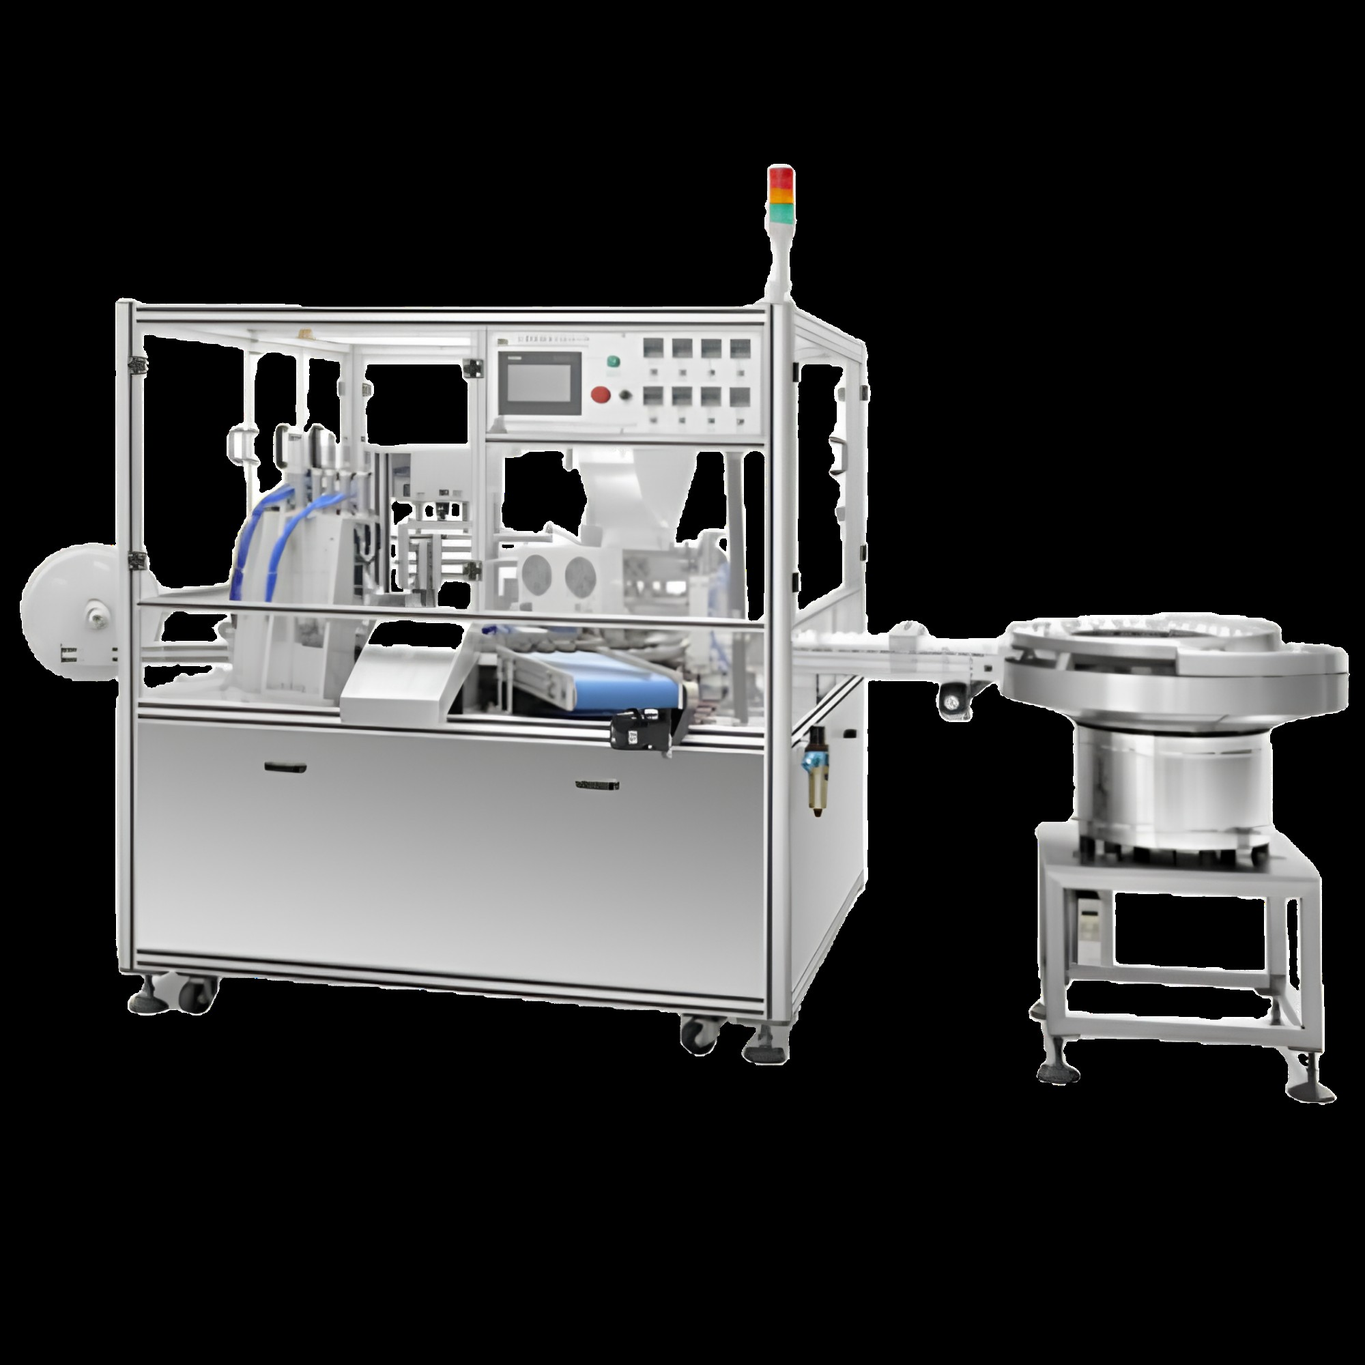
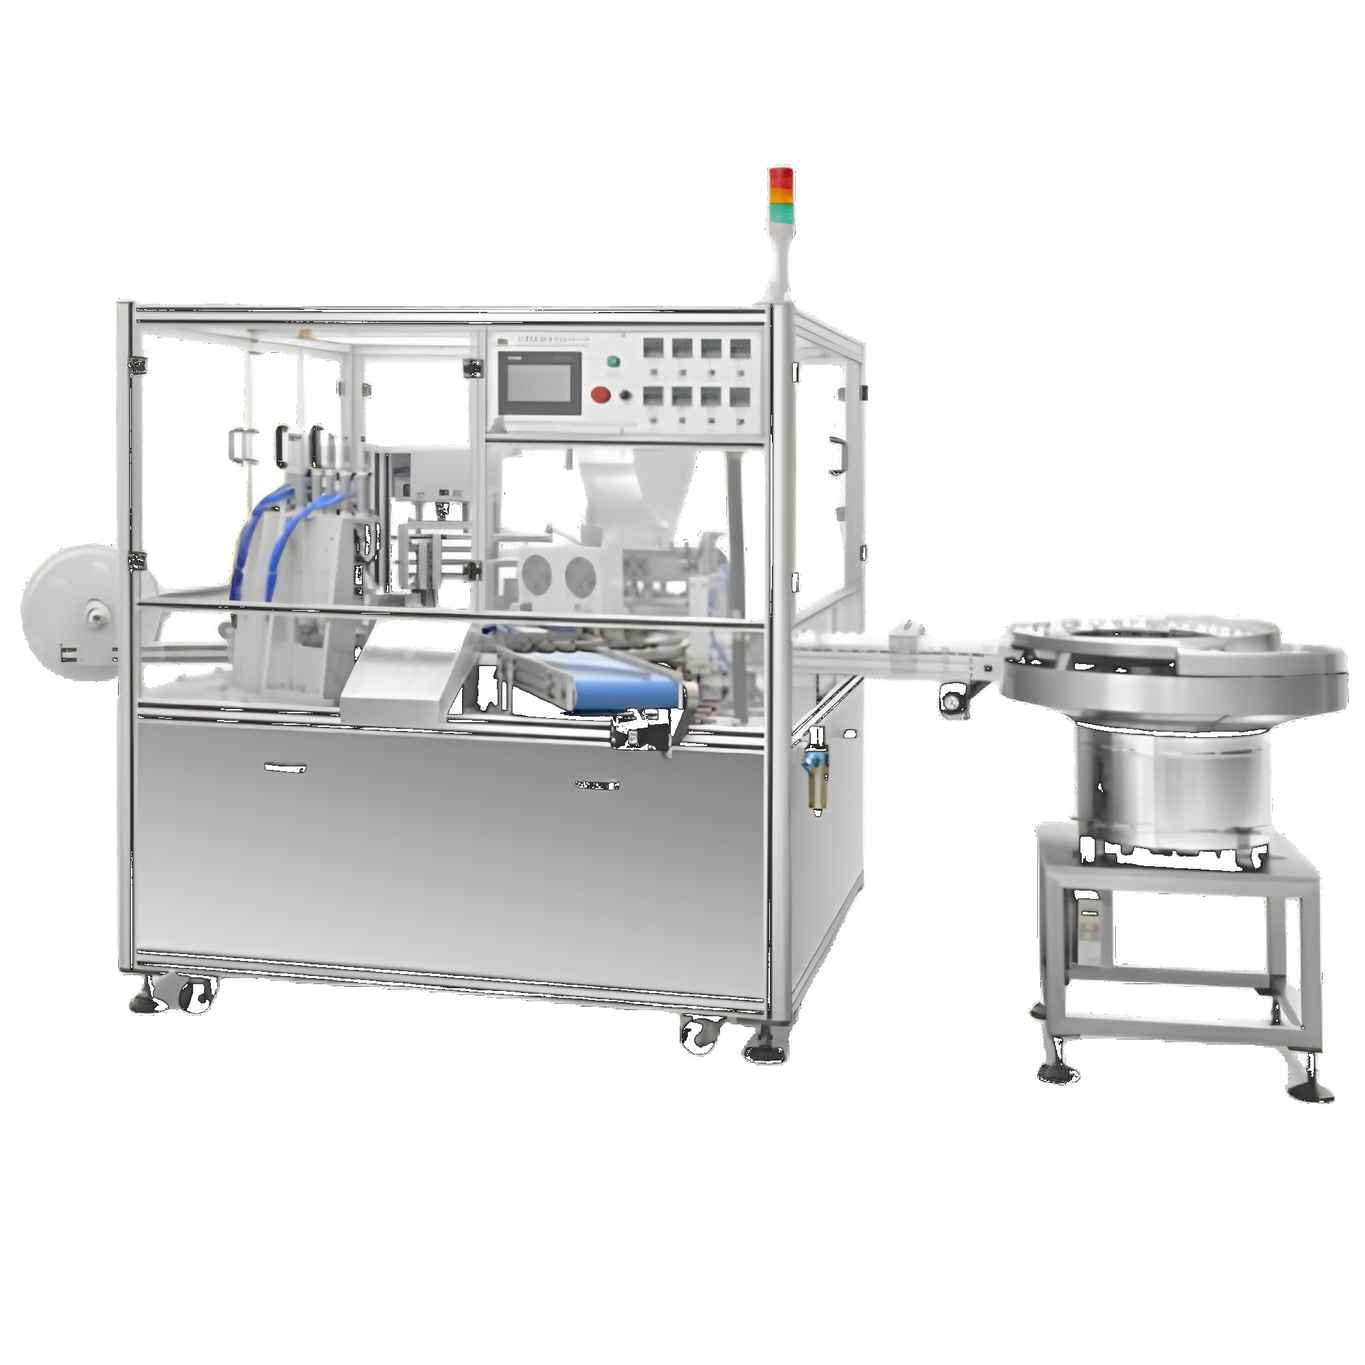
Atualiza 6 barramentos e fundo branco dessecante

diff --git a/catalogo.html b/catalogo.html
@@ -276,92 +276,99 @@
         <div class="cat-grid" id="catGrid">
 
             <!-- BARRAMENTOS -->
+
+            <!-- 1. Barramento Bifásico -->
             <div class="cat-card reveal" data-cat="barramento">
                 <div class="cat-card-img">
-                    <img src="img/barramento-trifasico-1.jpg" alt="Barramento Bifásico DIN">
+                    <img src="img/barramento-cat-bifasico.png" alt="Barramento Bifásico A&E Painéis">
                     <div class="cat-card-badge">Barramento</div>
                 </div>
                 <div class="cat-card-body">
-                    <h3>Barramento Bifásico DIN</h3>
-                    <p>Barramento bifásico de 100A a 225A em cobre eletrolítico com banho de nitrato de prata. Compatível com disjuntores DIN de todas as marcas. Ideal para quadros de distribuição residenciais e comerciais.</p>
+                    <h3>Barramento Bifásico</h3>
+                    <p>Barramento bifásico em cobre eletrolítico com banho de prata. Conexão direta no disjuntor, compatível com todas as marcas DIN. Ideal para quadros de distribuição residenciais e comerciais.</p>
                     <div class="cat-card-footer">
                         <a href="barramento-padrao-din.html#bifasico-100a" class="cat-card-link">Ver detalhes <svg viewBox="0 0 24 24"><path d="M5 12h14M12 5l7 7-7 7"/></svg></a>
-                        <a href="https://wa.me/5511924898593?text=Olá! Gostaria de orçamento para Barramento Bifásico DIN." target="_blank" class="cat-card-whatsapp"><svg viewBox="0 0 24 24"><path d="M17.472 14.382c-.297-.149-1.758-.867-2.03-.967-.273-.099-.471-.148-.67.15-.197.297-.767.966-.94 1.164-.173.199-.347.223-.644.075-.297-.15-1.255-.463-2.39-1.475-.883-.788-1.48-1.761-1.653-2.059-.173-.297-.018-.458.13-.606.134-.133.298-.347.446-.52.149-.174.198-.298.298-.497.099-.198.05-.371-.025-.52-.075-.149-.669-1.612-.916-2.207-.242-.579-.487-.5-.669-.51l-.57-.01c-.198 0-.52.074-.792.372-.272.297-1.04 1.016-1.04 2.479 0 1.462 1.065 2.875 1.213 3.074.149.198 2.096 3.2 5.077 4.487.709.306 1.262.489 1.694.625.712.227 1.36.195 1.871.118.571-.085 1.758-.719 2.006-1.413.248-.694.248-1.289.173-1.413-.074-.124-.272-.198-.57-.347z"/><path d="M12 2C6.477 2 2 6.477 2 12c0 1.89.525 3.66 1.438 5.168L2 22l4.832-1.438A9.955 9.955 0 0012 22c5.523 0 10-4.477 10-10S17.523 2 12 2z"/></svg>Orçamento</a>
+                        <a href="https://wa.me/5511924898593?text=Olá! Gostaria de orçamento para Barramento Bifásico." target="_blank" class="cat-card-whatsapp"><svg viewBox="0 0 24 24"><path d="M17.472 14.382c-.297-.149-1.758-.867-2.03-.967-.273-.099-.471-.148-.67.15-.197.297-.767.966-.94 1.164-.173.199-.347.223-.644.075-.297-.15-1.255-.463-2.39-1.475-.883-.788-1.48-1.761-1.653-2.059-.173-.297-.018-.458.13-.606.134-.133.298-.347.446-.52.149-.174.198-.298.298-.497.099-.198.05-.371-.025-.52-.075-.149-.669-1.612-.916-2.207-.242-.579-.487-.5-.669-.51l-.57-.01c-.198 0-.52.074-.792.372-.272.297-1.04 1.016-1.04 2.479 0 1.462 1.065 2.875 1.213 3.074.149.198 2.096 3.2 5.077 4.487.709.306 1.262.489 1.694.625.712.227 1.36.195 1.871.118.571-.085 1.758-.719 2.006-1.413.248-.694.248-1.289.173-1.413-.074-.124-.272-.198-.57-.347z"/><path d="M12 2C6.477 2 2 6.477 2 12c0 1.89.525 3.66 1.438 5.168L2 22l4.832-1.438A9.955 9.955 0 0012 22c5.523 0 10-4.477 10-10S17.523 2 12 2z"/></svg>Orçamento</a>
                     </div>
                 </div>
             </div>
 
+            <!-- 2. Barramento Conexão via Fio -->
             <div class="cat-card reveal reveal-d1" data-cat="barramento">
                 <div class="cat-card-img">
-                    <img src="img/barramento-kit-trifasico.png" alt="Barramento Trifásico DIN">
+                    <img src="img/barramento-cat-conexao-fio.png" alt="Barramento Conexão via Fio A&E Painéis">
                     <div class="cat-card-badge">Barramento</div>
                 </div>
                 <div class="cat-card-body">
-                    <h3>Barramento Trifásico DIN</h3>
-                    <p>Barramento trifásico de 100A a 225A com isolamento por cores (preto, branco, vermelho). Cobre eletrolítico com banho de prata, fornecido com isoladores e trilhos DIN. Para quadros industriais e comerciais.</p>
+                    <h3>Barramento Conexão via Fio</h3>
+                    <p>Barramento trifásico com conexão via fio, ideal para quadros com configurações flexíveis. Cobre eletrolítico de alta condutividade com isoladores e detalhes de montagem para instalação segura e organizada.</p>
                     <div class="cat-card-footer">
-                        <a href="barramento-padrao-din.html#trifasico-100a" class="cat-card-link">Ver detalhes <svg viewBox="0 0 24 24"><path d="M5 12h14M12 5l7 7-7 7"/></svg></a>
-                        <a href="https://wa.me/5511924898593?text=Olá! Gostaria de orçamento para Barramento Trifásico DIN." target="_blank" class="cat-card-whatsapp"><svg viewBox="0 0 24 24"><path d="M17.472 14.382c-.297-.149-1.758-.867-2.03-.967-.273-.099-.471-.148-.67.15-.197.297-.767.966-.94 1.164-.173.199-.347.223-.644.075-.297-.15-1.255-.463-2.39-1.475-.883-.788-1.48-1.761-1.653-2.059-.173-.297-.018-.458.13-.606.134-.133.298-.347.446-.52.149-.174.198-.298.298-.497.099-.198.05-.371-.025-.52-.075-.149-.669-1.612-.916-2.207-.242-.579-.487-.5-.669-.51l-.57-.01c-.198 0-.52.074-.792.372-.272.297-1.04 1.016-1.04 2.479 0 1.462 1.065 2.875 1.213 3.074.149.198 2.096 3.2 5.077 4.487.709.306 1.262.489 1.694.625.712.227 1.36.195 1.871.118.571-.085 1.758-.719 2.006-1.413.248-.694.248-1.289.173-1.413-.074-.124-.272-.198-.57-.347z"/><path d="M12 2C6.477 2 2 6.477 2 12c0 1.89.525 3.66 1.438 5.168L2 22l4.832-1.438A9.955 9.955 0 0012 22c5.523 0 10-4.477 10-10S17.523 2 12 2z"/></svg>Orçamento</a>
+                        <a href="barramento-padrao-din.html" class="cat-card-link">Ver detalhes <svg viewBox="0 0 24 24"><path d="M5 12h14M12 5l7 7-7 7"/></svg></a>
+                        <a href="https://wa.me/5511924898593?text=Olá! Gostaria de orçamento para Barramento Conexão via Fio." target="_blank" class="cat-card-whatsapp"><svg viewBox="0 0 24 24"><path d="M17.472 14.382c-.297-.149-1.758-.867-2.03-.967-.273-.099-.471-.148-.67.15-.197.297-.767.966-.94 1.164-.173.199-.347.223-.644.075-.297-.15-1.255-.463-2.39-1.475-.883-.788-1.48-1.761-1.653-2.059-.173-.297-.018-.458.13-.606.134-.133.298-.347.446-.52.149-.174.198-.298.298-.497.099-.198.05-.371-.025-.52-.075-.149-.669-1.612-.916-2.207-.242-.579-.487-.5-.669-.51l-.57-.01c-.198 0-.52.074-.792.372-.272.297-1.04 1.016-1.04 2.479 0 1.462 1.065 2.875 1.213 3.074.149.198 2.096 3.2 5.077 4.487.709.306 1.262.489 1.694.625.712.227 1.36.195 1.871.118.571-.085 1.758-.719 2.006-1.413.248-.694.248-1.289.173-1.413-.074-.124-.272-.198-.57-.347z"/><path d="M12 2C6.477 2 2 6.477 2 12c0 1.89.525 3.66 1.438 5.168L2 22l4.832-1.438A9.955 9.955 0 0012 22c5.523 0 10-4.477 10-10S17.523 2 12 2z"/></svg>Orçamento</a>
                     </div>
                 </div>
             </div>
 
+            <!-- 3. Kit Barramento Trifásico Completo -->
             <div class="cat-card reveal reveal-d2" data-cat="barramento">
                 <div class="cat-card-img">
-                    <img src="img/barramento-especial-1.jpg" alt="Barramento Especial DIN">
-                    <div class="cat-card-badge">Sob Medida</div>
+                    <img src="img/barramento-cat-kit-trifasico.png" alt="Kit Barramento Trifásico Completo A&E Painéis">
+                    <div class="cat-card-badge">Kit Completo</div>
                 </div>
                 <div class="cat-card-body">
-                    <h3>Barramento Especial DIN</h3>
-                    <p>Barramentos sob medida com dimensões, furação e configuração personalizadas. Projeto exclusivo para cada aplicação, incluindo barras de interligação e conjuntos para CCM/QGBT.</p>
+                    <h3>Kit Barramento Trifásico Completo</h3>
+                    <p>Kit completo com barramento trifásico, termo conexão direto na caixa moldada, barras de neutro e terra e trilhos DIN. Solução pronta para montagem de quadros de distribuição e QGBT.</p>
                     <div class="cat-card-footer">
                         <a href="barramento-especial-din.html" class="cat-card-link">Ver detalhes <svg viewBox="0 0 24 24"><path d="M5 12h14M12 5l7 7-7 7"/></svg></a>
-                        <a href="https://wa.me/5511924898593?text=Olá! Gostaria de orçamento para Barramento Especial DIN." target="_blank" class="cat-card-whatsapp"><svg viewBox="0 0 24 24"><path d="M17.472 14.382c-.297-.149-1.758-.867-2.03-.967-.273-.099-.471-.148-.67.15-.197.297-.767.966-.94 1.164-.173.199-.347.223-.644.075-.297-.15-1.255-.463-2.39-1.475-.883-.788-1.48-1.761-1.653-2.059-.173-.297-.018-.458.13-.606.134-.133.298-.347.446-.52.149-.174.198-.298.298-.497.099-.198.05-.371-.025-.52-.075-.149-.669-1.612-.916-2.207-.242-.579-.487-.5-.669-.51l-.57-.01c-.198 0-.52.074-.792.372-.272.297-1.04 1.016-1.04 2.479 0 1.462 1.065 2.875 1.213 3.074.149.198 2.096 3.2 5.077 4.487.709.306 1.262.489 1.694.625.712.227 1.36.195 1.871.118.571-.085 1.758-.719 2.006-1.413.248-.694.248-1.289.173-1.413-.074-.124-.272-.198-.57-.347z"/><path d="M12 2C6.477 2 2 6.477 2 12c0 1.89.525 3.66 1.438 5.168L2 22l4.832-1.438A9.955 9.955 0 0012 22c5.523 0 10-4.477 10-10S17.523 2 12 2z"/></svg>Orçamento</a>
+                        <a href="https://wa.me/5511924898593?text=Olá! Gostaria de orçamento para Kit Barramento Trifásico Completo." target="_blank" class="cat-card-whatsapp"><svg viewBox="0 0 24 24"><path d="M17.472 14.382c-.297-.149-1.758-.867-2.03-.967-.273-.099-.471-.148-.67.15-.197.297-.767.966-.94 1.164-.173.199-.347.223-.644.075-.297-.15-1.255-.463-2.39-1.475-.883-.788-1.48-1.761-1.653-2.059-.173-.297-.018-.458.13-.606.134-.133.298-.347.446-.52.149-.174.198-.298.298-.497.099-.198.05-.371-.025-.52-.075-.149-.669-1.612-.916-2.207-.242-.579-.487-.5-.669-.51l-.57-.01c-.198 0-.52.074-.792.372-.272.297-1.04 1.016-1.04 2.479 0 1.462 1.065 2.875 1.213 3.074.149.198 2.096 3.2 5.077 4.487.709.306 1.262.489 1.694.625.712.227 1.36.195 1.871.118.571-.085 1.758-.719 2.006-1.413.248-.694.248-1.289.173-1.413-.074-.124-.272-.198-.57-.347z"/><path d="M12 2C6.477 2 2 6.477 2 12c0 1.89.525 3.66 1.438 5.168L2 22l4.832-1.438A9.955 9.955 0 0012 22c5.523 0 10-4.477 10-10S17.523 2 12 2z"/></svg>Orçamento</a>
                     </div>
                 </div>
             </div>
 
+            <!-- 4. Kit Barramento Neutro e Terra -->
             <div class="cat-card reveal" data-cat="barramento">
                 <div class="cat-card-img">
-                    <img src="img/barramento-kit-neutro-terra.png" alt="Barra de Neutro e Terra">
+                    <img src="img/barramento-cat-kit-neutro-terra.png" alt="Kit Barramento Neutro e Terra A&E Painéis">
                     <div class="cat-card-badge">Barramento</div>
                 </div>
                 <div class="cat-card-body">
-                    <h3>Barra de Neutro e Terra</h3>
-                    <p>Barras de neutro e terra em cobre eletrolítico com isoladores coloridos (verde para terra, azul para neutro). Disponíveis em versões padrão e personalizada com furação sob medida.</p>
+                    <h3>Kit Barramento Neutro e Terra</h3>
+                    <p>Kit com barras de neutro e terra em cobre eletrolítico com isoladores coloridos (verde para terra, azul para neutro). Conjunto pronto para instalação em quadros de distribuição conforme norma NBR 5410.</p>
                     <div class="cat-card-footer">
                         <a href="barramento-neutro-terra.html" class="cat-card-link">Ver detalhes <svg viewBox="0 0 24 24"><path d="M5 12h14M12 5l7 7-7 7"/></svg></a>
-                        <a href="https://wa.me/5511924898593?text=Olá! Gostaria de orçamento para Barra de Neutro e Terra." target="_blank" class="cat-card-whatsapp"><svg viewBox="0 0 24 24"><path d="M17.472 14.382c-.297-.149-1.758-.867-2.03-.967-.273-.099-.471-.148-.67.15-.197.297-.767.966-.94 1.164-.173.199-.347.223-.644.075-.297-.15-1.255-.463-2.39-1.475-.883-.788-1.48-1.761-1.653-2.059-.173-.297-.018-.458.13-.606.134-.133.298-.347.446-.52.149-.174.198-.298.298-.497.099-.198.05-.371-.025-.52-.075-.149-.669-1.612-.916-2.207-.242-.579-.487-.5-.669-.51l-.57-.01c-.198 0-.52.074-.792.372-.272.297-1.04 1.016-1.04 2.479 0 1.462 1.065 2.875 1.213 3.074.149.198 2.096 3.2 5.077 4.487.709.306 1.262.489 1.694.625.712.227 1.36.195 1.871.118.571-.085 1.758-.719 2.006-1.413.248-.694.248-1.289.173-1.413-.074-.124-.272-.198-.57-.347z"/><path d="M12 2C6.477 2 2 6.477 2 12c0 1.89.525 3.66 1.438 5.168L2 22l4.832-1.438A9.955 9.955 0 0012 22c5.523 0 10-4.477 10-10S17.523 2 12 2z"/></svg>Orçamento</a>
+                        <a href="https://wa.me/5511924898593?text=Olá! Gostaria de orçamento para Kit Barramento Neutro e Terra." target="_blank" class="cat-card-whatsapp"><svg viewBox="0 0 24 24"><path d="M17.472 14.382c-.297-.149-1.758-.867-2.03-.967-.273-.099-.471-.148-.67.15-.197.297-.767.966-.94 1.164-.173.199-.347.223-.644.075-.297-.15-1.255-.463-2.39-1.475-.883-.788-1.48-1.761-1.653-2.059-.173-.297-.018-.458.13-.606.134-.133.298-.347.446-.52.149-.174.198-.298.298-.497.099-.198.05-.371-.025-.52-.075-.149-.669-1.612-.916-2.207-.242-.579-.487-.5-.669-.51l-.57-.01c-.198 0-.52.074-.792.372-.272.297-1.04 1.016-1.04 2.479 0 1.462 1.065 2.875 1.213 3.074.149.198 2.096 3.2 5.077 4.487.709.306 1.262.489 1.694.625.712.227 1.36.195 1.871.118.571-.085 1.758-.719 2.006-1.413.248-.694.248-1.289.173-1.413-.074-.124-.272-.198-.57-.347z"/><path d="M12 2C6.477 2 2 6.477 2 12c0 1.89.525 3.66 1.438 5.168L2 22l4.832-1.438A9.955 9.955 0 0012 22c5.523 0 10-4.477 10-10S17.523 2 12 2z"/></svg>Orçamento</a>
                     </div>
                 </div>
             </div>
 
+            <!-- 5. Barramento de Neutro -->
             <div class="cat-card reveal reveal-d1" data-cat="barramento">
                 <div class="cat-card-img">
-                    <img src="img/barramento-bifasico-1.jpg" alt="Barramento de Derivação">
+                    <img src="img/barramento-cat-neutro.png" alt="Barramento de Neutro A&E Painéis">
                     <div class="cat-card-badge">Barramento</div>
                 </div>
                 <div class="cat-card-body">
-                    <h3>Barramento de Derivação</h3>
-                    <p>Barramento de derivação 40A para conexão entre disjuntores. Encaixe perfeito com trilho DIN, cobre eletrolítico de alta condutividade. Solução prática para organização de quadros elétricos.</p>
+                    <h3>Barramento de Neutro</h3>
+                    <p>Barra de neutro em cobre eletrolítico com isolador azul. Furação padronizada para conexão segura dos condutores neutros. Disponível em diversos tamanhos para quadros residenciais, comerciais e industriais.</p>
                     <div class="cat-card-footer">
-                        <a href="barramento-derivacao.html" class="cat-card-link">Ver detalhes <svg viewBox="0 0 24 24"><path d="M5 12h14M12 5l7 7-7 7"/></svg></a>
-                        <a href="https://wa.me/5511924898593?text=Olá! Gostaria de orçamento para Barramento de Derivação." target="_blank" class="cat-card-whatsapp"><svg viewBox="0 0 24 24"><path d="M17.472 14.382c-.297-.149-1.758-.867-2.03-.967-.273-.099-.471-.148-.67.15-.197.297-.767.966-.94 1.164-.173.199-.347.223-.644.075-.297-.15-1.255-.463-2.39-1.475-.883-.788-1.48-1.761-1.653-2.059-.173-.297-.018-.458.13-.606.134-.133.298-.347.446-.52.149-.174.198-.298.298-.497.099-.198.05-.371-.025-.52-.075-.149-.669-1.612-.916-2.207-.242-.579-.487-.5-.669-.51l-.57-.01c-.198 0-.52.074-.792.372-.272.297-1.04 1.016-1.04 2.479 0 1.462 1.065 2.875 1.213 3.074.149.198 2.096 3.2 5.077 4.487.709.306 1.262.489 1.694.625.712.227 1.36.195 1.871.118.571-.085 1.758-.719 2.006-1.413.248-.694.248-1.289.173-1.413-.074-.124-.272-.198-.57-.347z"/><path d="M12 2C6.477 2 2 6.477 2 12c0 1.89.525 3.66 1.438 5.168L2 22l4.832-1.438A9.955 9.955 0 0012 22c5.523 0 10-4.477 10-10S17.523 2 12 2z"/></svg>Orçamento</a>
+                        <a href="barramento-neutro-terra.html" class="cat-card-link">Ver detalhes <svg viewBox="0 0 24 24"><path d="M5 12h14M12 5l7 7-7 7"/></svg></a>
+                        <a href="https://wa.me/5511924898593?text=Olá! Gostaria de orçamento para Barramento de Neutro." target="_blank" class="cat-card-whatsapp"><svg viewBox="0 0 24 24"><path d="M17.472 14.382c-.297-.149-1.758-.867-2.03-.967-.273-.099-.471-.148-.67.15-.197.297-.767.966-.94 1.164-.173.199-.347.223-.644.075-.297-.15-1.255-.463-2.39-1.475-.883-.788-1.48-1.761-1.653-2.059-.173-.297-.018-.458.13-.606.134-.133.298-.347.446-.52.149-.174.198-.298.298-.497.099-.198.05-.371-.025-.52-.075-.149-.669-1.612-.916-2.207-.242-.579-.487-.5-.669-.51l-.57-.01c-.198 0-.52.074-.792.372-.272.297-1.04 1.016-1.04 2.479 0 1.462 1.065 2.875 1.213 3.074.149.198 2.096 3.2 5.077 4.487.709.306 1.262.489 1.694.625.712.227 1.36.195 1.871.118.571-.085 1.758-.719 2.006-1.413.248-.694.248-1.289.173-1.413-.074-.124-.272-.198-.57-.347z"/><path d="M12 2C6.477 2 2 6.477 2 12c0 1.89.525 3.66 1.438 5.168L2 22l4.832-1.438A9.955 9.955 0 0012 22c5.523 0 10-4.477 10-10S17.523 2 12 2z"/></svg>Orçamento</a>
                     </div>
                 </div>
             </div>
 
+            <!-- 6. Barramento de Terra -->
             <div class="cat-card reveal reveal-d2" data-cat="barramento">
                 <div class="cat-card-img">
-                    <img src="img/barramento-trifasico-3.jpg" alt="Soluções Sob Projeto">
-                    <div class="cat-card-badge">Engenharia</div>
+                    <img src="img/barramento-cat-terra.png" alt="Barramento de Terra A&E Painéis">
+                    <div class="cat-card-badge">Barramento</div>
                 </div>
                 <div class="cat-card-body">
-                    <h3>Soluções Sob Projeto</h3>
-                    <p>Barramentos de alta amperagem, conjuntos completos para CCM/QGBT, furação especial e barras de interligação. Projeto e fabricação com suporte de engenharia dedicado.</p>
+                    <h3>Barramento de Terra</h3>
+                    <p>Barra de terra em cobre eletrolítico com isolador verde. Furação padronizada para aterramento seguro conforme norma NBR 5410. Disponível em diversos tamanhos para quadros residenciais, comerciais e industriais.</p>
                     <div class="cat-card-footer">
-                        <a href="barramentos-especiais.html" class="cat-card-link">Ver detalhes <svg viewBox="0 0 24 24"><path d="M5 12h14M12 5l7 7-7 7"/></svg></a>
-                        <a href="https://wa.me/5511924898593?text=Olá! Gostaria de orçamento para Soluções Sob Projeto." target="_blank" class="cat-card-whatsapp"><svg viewBox="0 0 24 24"><path d="M17.472 14.382c-.297-.149-1.758-.867-2.03-.967-.273-.099-.471-.148-.67.15-.197.297-.767.966-.94 1.164-.173.199-.347.223-.644.075-.297-.15-1.255-.463-2.39-1.475-.883-.788-1.48-1.761-1.653-2.059-.173-.297-.018-.458.13-.606.134-.133.298-.347.446-.52.149-.174.198-.298.298-.497.099-.198.05-.371-.025-.52-.075-.149-.669-1.612-.916-2.207-.242-.579-.487-.5-.669-.51l-.57-.01c-.198 0-.52.074-.792.372-.272.297-1.04 1.016-1.04 2.479 0 1.462 1.065 2.875 1.213 3.074.149.198 2.096 3.2 5.077 4.487.709.306 1.262.489 1.694.625.712.227 1.36.195 1.871.118.571-.085 1.758-.719 2.006-1.413.248-.694.248-1.289.173-1.413-.074-.124-.272-.198-.57-.347z"/><path d="M12 2C6.477 2 2 6.477 2 12c0 1.89.525 3.66 1.438 5.168L2 22l4.832-1.438A9.955 9.955 0 0012 22c5.523 0 10-4.477 10-10S17.523 2 12 2z"/></svg>Orçamento</a>
+                        <a href="barramento-neutro-terra.html" class="cat-card-link">Ver detalhes <svg viewBox="0 0 24 24"><path d="M5 12h14M12 5l7 7-7 7"/></svg></a>
+                        <a href="https://wa.me/5511924898593?text=Olá! Gostaria de orçamento para Barramento de Terra." target="_blank" class="cat-card-whatsapp"><svg viewBox="0 0 24 24"><path d="M17.472 14.382c-.297-.149-1.758-.867-2.03-.967-.273-.099-.471-.148-.67.15-.197.297-.767.966-.94 1.164-.173.199-.347.223-.644.075-.297-.15-1.255-.463-2.39-1.475-.883-.788-1.48-1.761-1.653-2.059-.173-.297-.018-.458.13-.606.134-.133.298-.347.446-.52.149-.174.198-.298.298-.497.099-.198.05-.371-.025-.52-.075-.149-.669-1.612-.916-2.207-.242-.579-.487-.5-.669-.51l-.57-.01c-.198 0-.52.074-.792.372-.272.297-1.04 1.016-1.04 2.479 0 1.462 1.065 2.875 1.213 3.074.149.198 2.096 3.2 5.077 4.487.709.306 1.262.489 1.694.625.712.227 1.36.195 1.871.118.571-.085 1.758-.719 2.006-1.413.248-.694.248-1.289.173-1.413-.074-.124-.272-.198-.57-.347z"/><path d="M12 2C6.477 2 2 6.477 2 12c0 1.89.525 3.66 1.438 5.168L2 22l4.832-1.438A9.955 9.955 0 0012 22c5.523 0 10-4.477 10-10S17.523 2 12 2z"/></svg>Orçamento</a>
                     </div>
                 </div>
             </div>

diff --git a/update_photos.py b/update_photos.py
@@ -1,0 +1,49 @@
+"""
+1. Copia as 6 fotos de barramentos para img/
+2. Troca o fundo preto da máquina dessecante para branco
+"""
+from PIL import Image, ImageFilter
+import numpy as np
+import shutil, os
+
+IMG = r"C:\Users\kauap\Documents\aepaineis-site\img"
+BAR_SRC = r"C:\Users\kauap\OneDrive\Documentos\aepaineis-site\Fotos barramentos CATALOGO"
+
+# === 1. Copiar barramentos ===
+bar_map = {
+    "BARRAMENTO BIFASICO .png": "barramento-cat-bifasico.png",
+    "BARRAMENTO CONEXÃO VIA FIO.png": "barramento-cat-conexao-fio.png",
+    "KIT BARRAMENTO COM TERMO CONEXÃO DIRETO NO CAIXA MOLDADA KIT COM NEUTRO E TERRA E TRILHOS DIN.png": "barramento-cat-kit-trifasico.png",
+    "KIT BARRAMENTO NEUTRO E TERRA.png": "barramento-cat-kit-neutro-terra.png",
+    "BARRAMENTO NEUTRO.png": "barramento-cat-neutro.png",
+    "BARRAMENTO TERRA.png": "barramento-cat-terra.png",
+}
+
+for src_name, dst_name in bar_map.items():
+    src = os.path.join(BAR_SRC, src_name)
+    dst = os.path.join(IMG, dst_name)
+    if os.path.exists(src):
+        shutil.copy2(src, dst)
+        print(f"OK: {src_name} -> {dst_name}")
+    else:
+        print(f"ERRO: Não encontrou {src_name}")
+
+# === 2. Trocar fundo preto da dessecante para branco ===
+maq_path = os.path.join(IMG, "maquina-enchimento-dessecante.jpg")
+print(f"\nProcessando fundo da máquina dessecante...")
+
+img = Image.open(maq_path).convert("RGB")
+arr = np.array(img)
+
+# Pixels escuros (fundo preto): R,G,B todos < 40
+mask = (arr[:,:,0] < 40) & (arr[:,:,1] < 40) & (arr[:,:,2] < 40)
+
+# Trocar para branco
+arr[mask] = [255, 255, 255]
+
+# Salvar
+result = Image.fromarray(arr)
+result.save(maq_path, quality=95)
+print(f"Fundo trocado para branco: {maq_path}")
+
+print("\nTudo pronto!")
